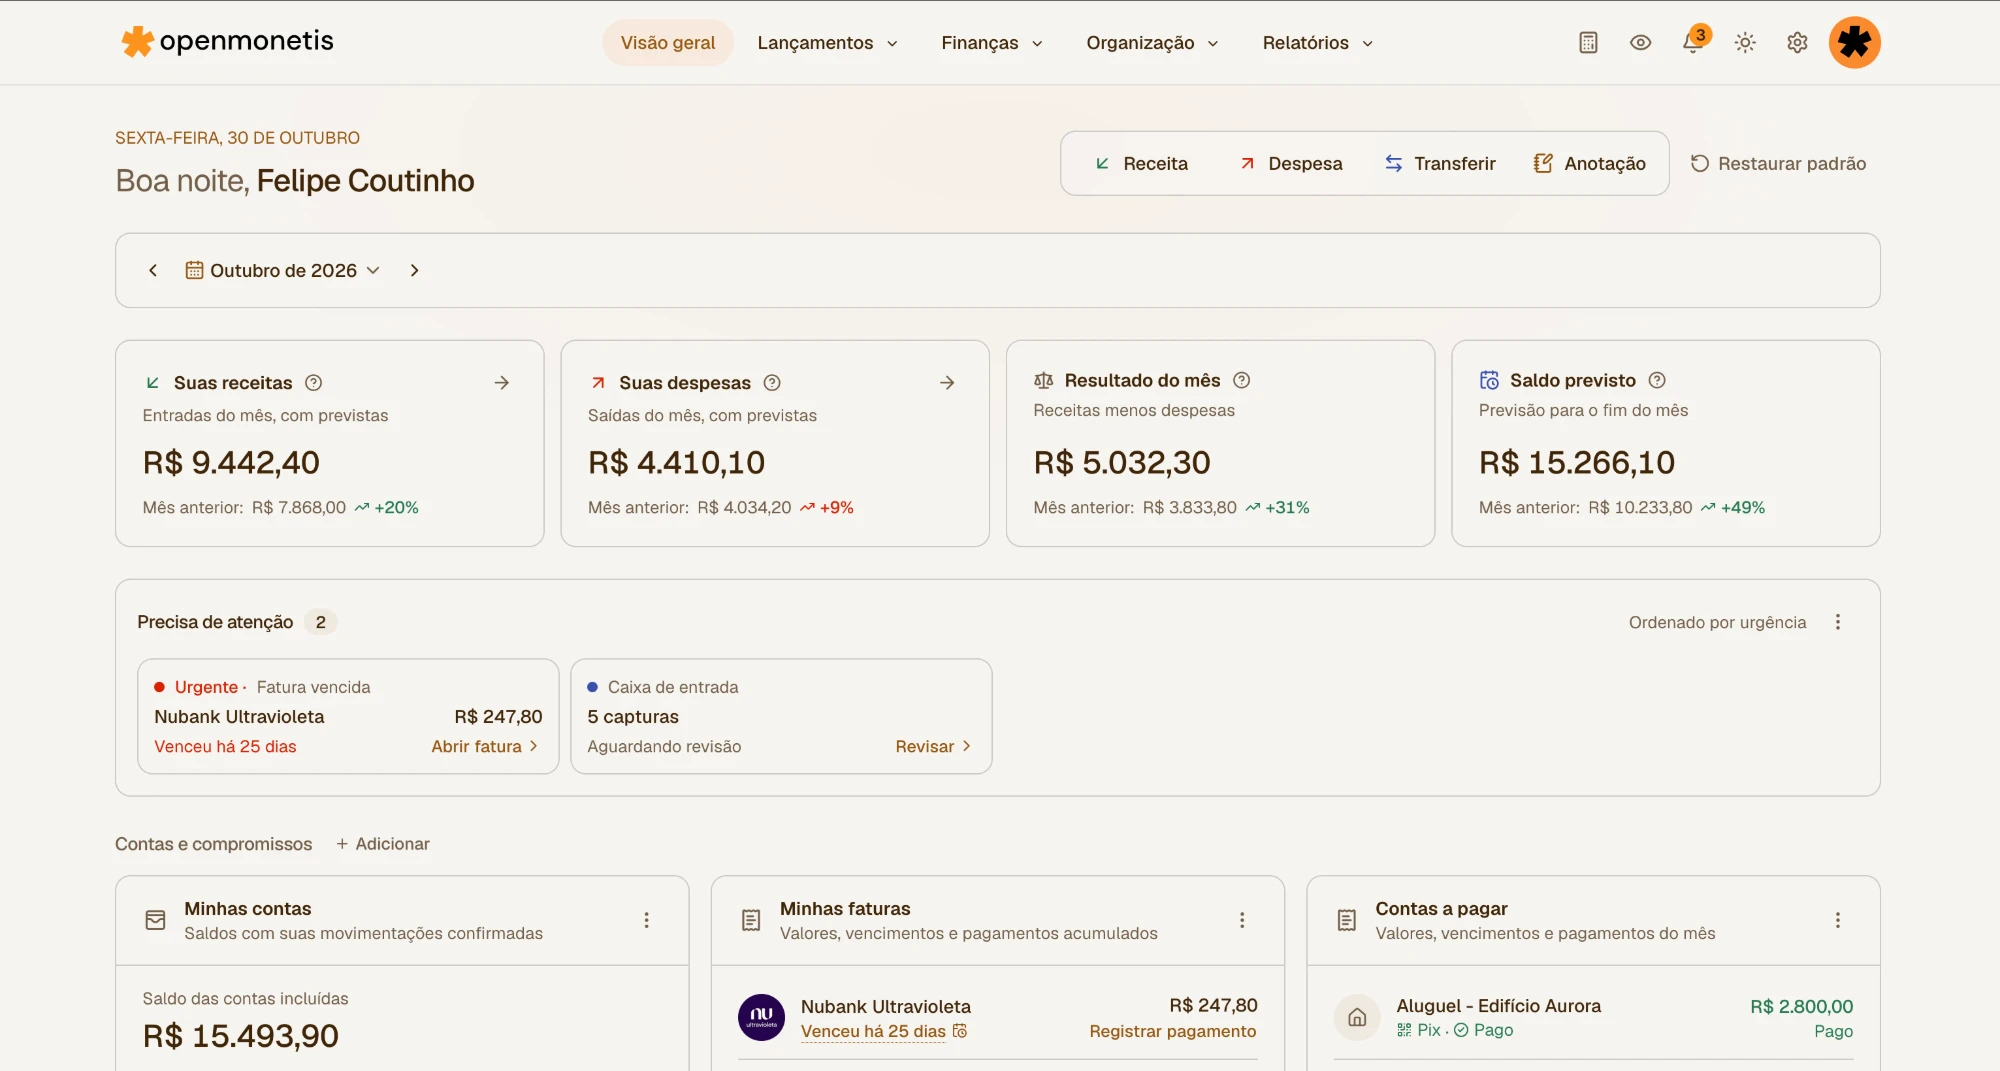
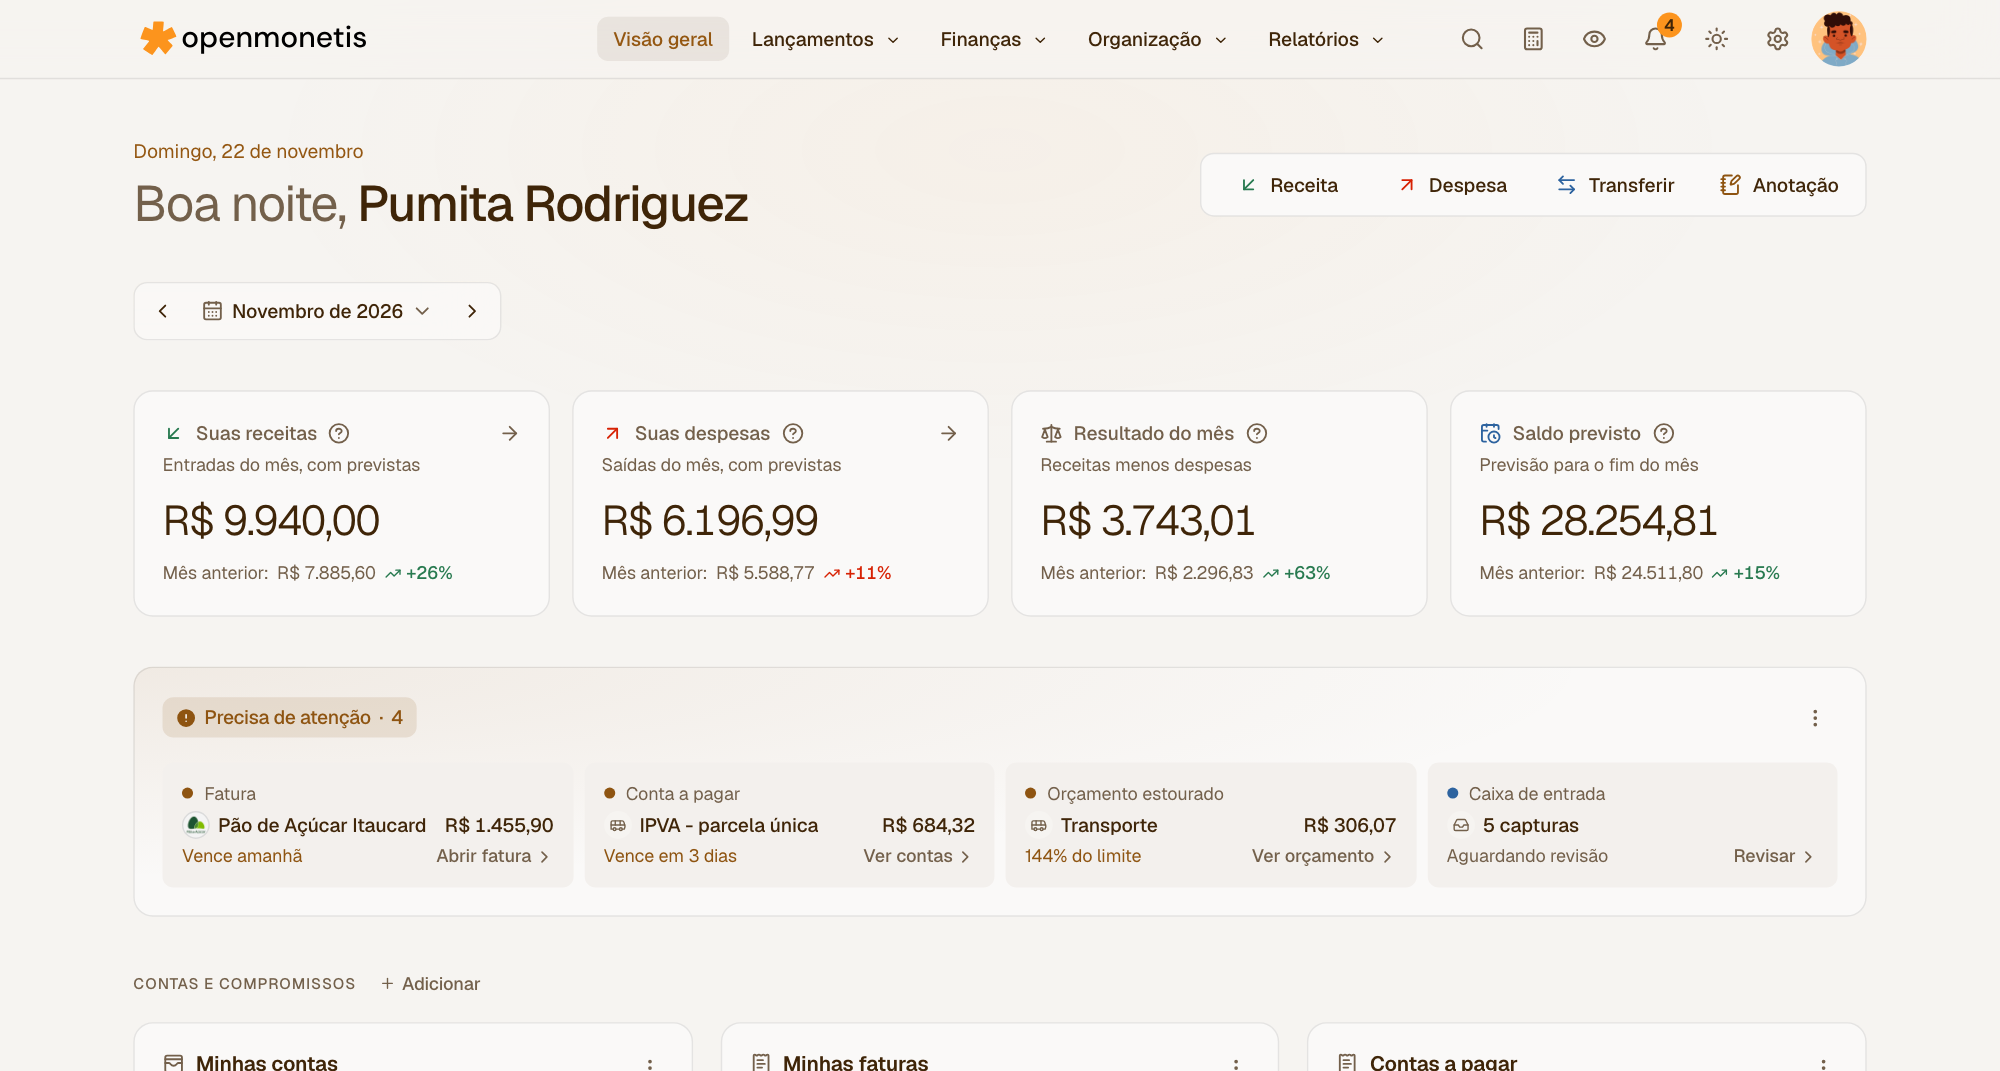
docs(readme): funcionalidades recentes e nova imagem do dashboard
A lista de funcionalidades passa a citar o painel Precisa de atenção, a
calculadora com histórico, anotações com tarefas, os relatórios por nome,
temas e o aplicativo instalável. A seção de desenvolvimento apresenta o
pnpm db:test-user, e a imagem do dashboard mostra a visão geral atual.

diff --git a/README.md b/README.md
@@ -32,13 +32,19 @@
 - contas, cartões, faturas, transações e transferências;
 - parcelas, recorrências, orçamentos que se repetem todo mês, metas com histórico de aportes e
   contas a pagar;
-- calendário do mês com vencimentos, faturas e tarefas, e busca global com **Ctrl K**;
+- visão geral do mês com widgets configuráveis e o painel **Precisa de atenção**, que reúne faturas
+  e contas vencidas ou perto do vencimento, tarefas com prazo, orçamentos estourados e capturas a
+  revisar, do mais urgente para o menos urgente;
+- calendário do mês com vencimentos, faturas e tarefas, busca global com **Ctrl K** e calculadora
+  com histórico;
 - pessoas, divisões, repasses e gastos compartilhados entre contas;
-- categorias e subcategorias, etiquetas, estabelecimentos, notas e checklists, além de anexos quando um storage S3 está
-  configurado;
-- relatórios, dashboard mensal e widgets configuráveis;
+- categorias e subcategorias, etiquetas, estabelecimentos com logo, e anotações em forma de nota,
+  lista ou tarefa com prazo, além de anexos quando um storage S3 está configurado;
+- relatórios de evolução por categoria, distribuição financeira, compromissos futuros,
+  parcelamentos e recorrências;
 - importação por planilha e caixa de entrada do Companion Android com regras configuráveis de
   categorização e pessoa;
+- temas claro e escuro, e um aplicativo instalável pelo navegador, pensado para o celular;
 - assistente de IA opcional, com diagnóstico da saúde financeira do mês e chat sobre os seus dados,
   usando a própria assinatura de Claude, ChatGPT (Codex) ou a conta Google (Antigravity) de cada
   pessoa.
@@ -107,6 +113,10 @@ pnpm dev
 
 A aplicação web fica em `http://localhost:7002`, a API em `http://localhost:7001` e o PostgreSQL em
 `127.0.0.1:7000`.
+
+Para explorar a aplicação com dados, `pnpm db:test-user` cria no banco local o usuário de teste
+`teste@openmonetis.local` (senha `openmonetis-teste`) com seis meses de dados demonstrativos; veja o
+[guia de testes](docs/testing.md).
 
 Comandos de validação:
 
